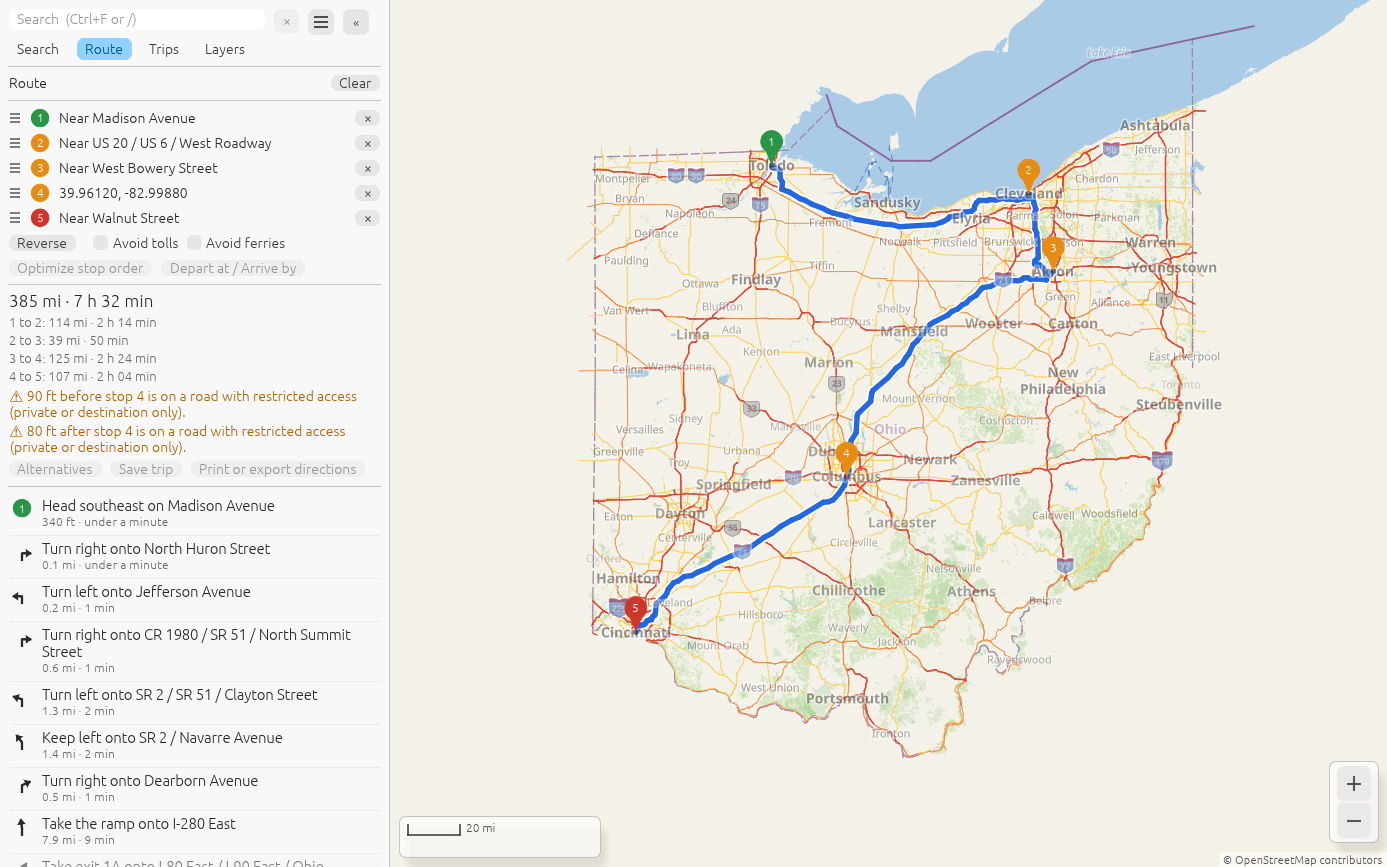
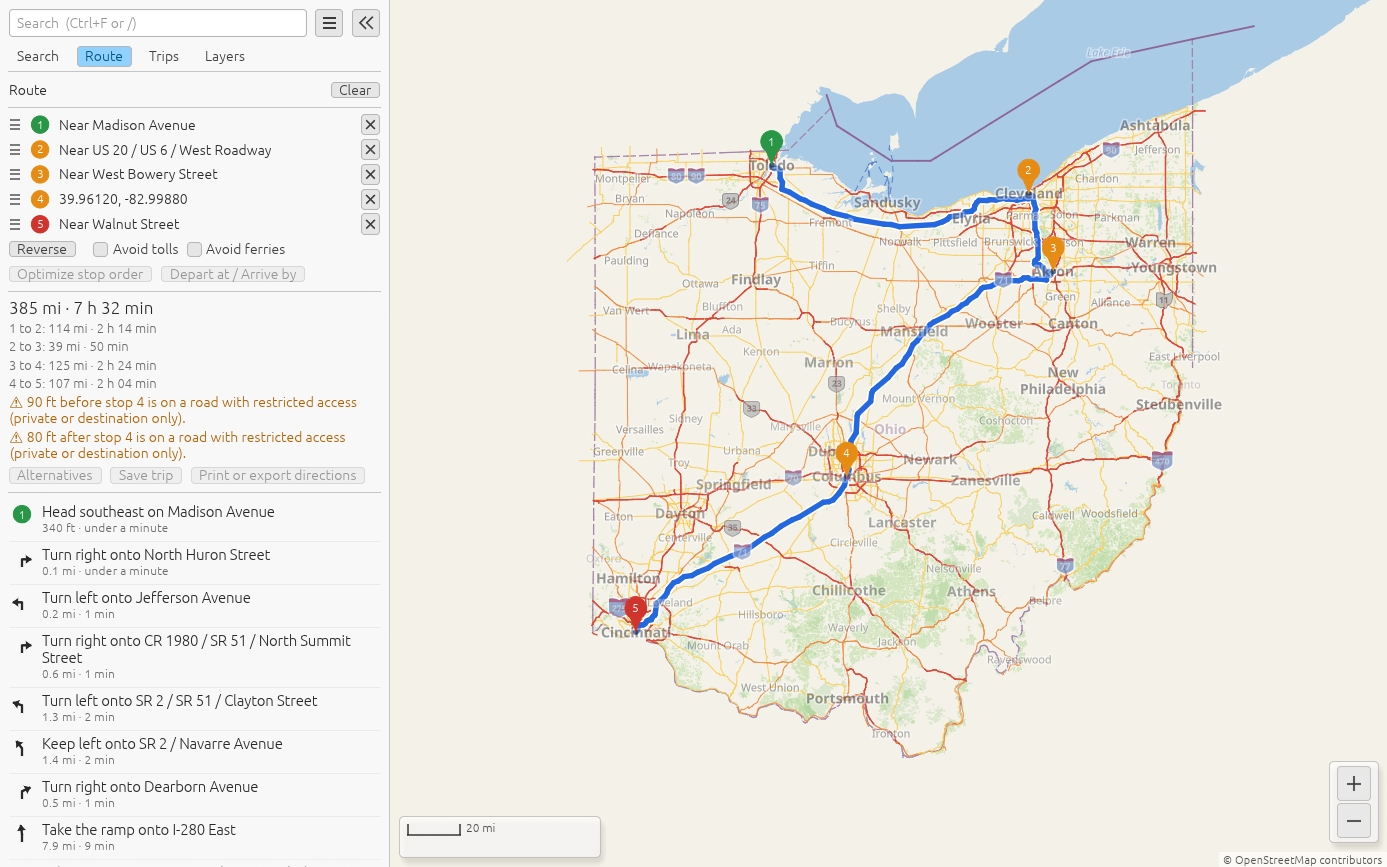
Side panel tweaks: header row, tab spacing, map shadows; docs
The header row is laid out from the right (hide, menu, then the search
box in what is left), so the hide button sits at the panel's margin and
the box, now directly in the row, is level with the buttons. More space
above the tabs than below them. The shadow of the boxes over the map is
halfway between egui's popup shadow and the last one (3 by 5 points,
blur 6).

README describes the clear button in the box; the side panel screenshots
are taken again in the new style; the 3.8 note records the style work.

Changed region(s): [[0.0, 0.0, 0.248, 1.0], [0.217, 0.0934, 0.279, 0.2803], [0.217, 0.0, 0.279, 0.0311]]

diff --git a/crates/app/src/app.rs b/crates/app/src/app.rs
@@ -1613,29 +1613,28 @@ fn side_panel(
         .frame(frame)
         .show(ui, |ui| {
             let had_focus = p.search.box_was_focused();
-            ui.horizontal(|ui| {
-                p.search.box_ui(
-                    ui,
-                    p.camera,
-                    2.0 * crate::theme::HEADER_H + 16.0,
-                    recent,
-                    key,
-                    &mut o.out,
-                );
-                o.action = side::menu(ui, debug);
+            // From the right: hide, the menu, and the box in what is left.
+            let row = egui::Layout::right_to_left(egui::Align::Center);
+            let size = Vec2::new(ui.available_width(), crate::theme::HEADER_H);
+            ui.allocate_ui_with_layout(size, row, |ui| {
                 let hide = glyph_button(ui, Glyph::Hide, crate::theme::HEADER_H)
                     .on_hover_text("Hide the panel  (Ctrl+B)");
                 o.hide = hide.rect;
                 if hide.clicked() {
                     side.open = false;
                 }
+                o.action = side::menu(ui, debug);
+                p.search.box_ui(ui, p.camera, recent, key, &mut o.out);
             });
             // A click in the box shows the search page.
             if p.search.focused(&ctx) && !had_focus {
                 *p.page = Page::Search;
             }
+            // More room above the tabs than below them.
+            ui.add_space(5.0);
             o.tabs = side::tabs(ui, p.page);
-            ui.separator();
+            ui.add(egui::Separator::default().spacing(2.0));
+            ui.add_space(3.0);
             match p.page {
                 Page::Search => {
                     if !p

diff --git a/crates/app/src/search/ui.rs b/crates/app/src/search/ui.rs
@@ -284,14 +284,13 @@ impl SearchUi {
         self.list_rect = None;
     }
 
-    /// The box and its clear button, across `ui` but for `reserve` points, with its keys: the arrows move through the
+    /// The box with its clear button, across what is left of `ui`, with its keys: the arrows move through the
     /// suggestions, Enter picks one or searches, Escape closes them and then lets go of the
     /// box. What the suggestions are is kept for [`Self::suggestions_ui`].
     pub fn box_ui(
         &mut self,
         ui: &mut egui::Ui,
         cam: &Camera,
-        reserve: f32,
         recent: &mut Vec<String>,
         bench: Option<BenchKey>,
         out: &mut Out,
@@ -347,7 +346,9 @@ impl SearchUi {
             None => {}
         }
 
-        ui.horizontal(|ui| {
+        // In the caller's row, which is as tall as the box: a row of its own would start
+        // at the default height and leave the box below the buttons beside it.
+        ui.scope(|ui| {
             // A press on the suggestions must not take the focus away before the click
             // lands.
             let keep = self
@@ -374,7 +375,7 @@ impl SearchUi {
             let edit = egui::TextEdit::singleline(&mut self.text)
                 .id(id)
                 .hint_text(hint)
-                .desired_width((ui.available_width() - reserve - 12.0).max(80.0))
+                .desired_width(ui.available_width().max(80.0))
                 .min_size(Vec2::new(0.0, HEADER_H))
                 .align(egui::Align2::LEFT_CENTER)
                 .suffix(egui::Atom::custom(slot, Vec2::splat(CLEAR)))

diff --git a/crates/app/src/theme.rs b/crates/app/src/theme.rs
@@ -13,13 +13,13 @@ pub const APPROX: Color32 = Color32::from_rgb(176, 96, 0);
 /// Height of the search box and the buttons beside it.
 pub const HEADER_H: f32 = 26.0;
 
-/// The shadow of the boxes over the map: close under them, not egui's popup shadow, which
-/// sits 6 by 10 points away.
+/// The shadow of the boxes over the map: nearer them than egui's popup shadow, which sits
+/// 6 by 10 points away.
 pub const MAP_SHADOW: egui::Shadow = egui::Shadow {
-    offset: [0, 1],
-    blur: 4,
+    offset: [3, 5],
+    blur: 6,
     spread: 0,
-    color: Color32::from_black_alpha(40),
+    color: Color32::from_black_alpha(32),
 };
 
 /// Corner radius of the widgets, and of windows, menus and the boxes over the map.

diff --git a/crates/app/src/search/ui_tests.rs b/crates/app/src/search/ui_tests.rs
@@ -35,7 +35,7 @@ fn keyboard() {
             if !s.box_was_focused() {
                 s.escape(&ctx);
             }
-            s.box_ui(ui, &cam, 0.0, recent, None, &mut o);
+            s.box_ui(ui, &cam, recent, None, &mut o);
             if !s.suggestions_ui(ui, &cam, Units::Kilometres, recent, &mut o) {
                 s.results_ui(ui, &cam, Units::Kilometres, &mut o);
             }

diff --git a/docs/phase3-plan.md b/docs/phase3-plan.md
@@ -298,7 +298,9 @@ Turn a path into directions, and write the hand-written route set.
 > - **Frame times** (dev machine, decision 14 Ohio pack, same session): `ohio-route.toml`, panel on the route page until the searches, interval p50 0.80 / p95 1.04 / max 16.6 ms, CPU p95 0.24; `ohio.toml`, panel on the search page, 0.65 / 0.82 / 16.1, CPU 0.20. The machine ran faster today than for 3.7 (`ohio.toml` 0.90 then), so the comparison is the gap: 0.22 ms with route and panel, against 0.27 in 3.7. Not back to the no-route figure: what is left is egui tessellating and drawing the route page's text, opaque or not. RSS peak 220 MiB (Ohio, as in 3.7). Binary 13.8 MiB.
 > - **North America** (Miami–Columbus–Seattle, then a search for "400 Broad St, Seattle" and "what's here" at Pike Place): everything works from the panel; route shown 501 ms after asking (trip 147 ms), frame p95 1.50 ms over a flight with typing in it. RSS peak 298 MiB, i.e. 313 MB: search's readers (41 MiB, 151 MiB read) on top of 3.7's 243 MiB. That is over criterion 6's 300 MB, though not caused by the panel; 3.9 should measure it on the official flight.
 >
-> Left open: the route page costs 0.2 ms of frame interval at p95 (egui's text); the window has still not been clicked through by hand (3.9).
+> - **Style** (after the owner tried the panel by hand on the dev machine): `theme::apply` sets the app's look over egui's light theme in one place: corner radius 3 for widgets and 4 for windows and menus; a grey outline on buttons, text boxes and checkboxes at rest; the search box 26 points tall, level with the ☰ and « beside it, its clear × inside it at the right end; ×, « and » drawn rather than typed, centred; the ☰ bars on whole pixels; the boxes over the map with a nearer shadow than egui's popups. Frame p95 unchanged (1.04 ms).
+>
+> Left open: the route page costs 0.2 ms of frame interval at p95 (egui's text); clicking through by hand on the Latitude 7490 and the E6430 stays in 3.9.
 
 *Added 2026-10-28 by the owner, after trying 3.7.* Search, its results, "what's here", the route panel, Layers and Menu are now separate translucent boxes floating over the map. Put them in one **opaque side panel on the left** that opens and closes, with the map beside it rather than under it. Less clutter, and the map is no longer drawn under panels and blended with them (the route panel alone costs about 0.27 ms of frame interval at p95 on the Ohio bench, 3.7). Design it for what phases 4 and 5 add, with placeholders where that helps.
 

diff --git a/README.md b/README.md
@@ -20,7 +20,7 @@ Controls: drag to pan, scroll or double-click to zoom, arrow keys to pan, `+`/`-
 
 The side panel on the left holds the search box, the ☰ menu (open or verify a pack, About this map, the debug overlay) and four pages: Search, Route, Trips (a placeholder for now) and Layers (the layer toggles and the scale bar's units). Ctrl+B or the « and » buttons hide and show it; drag its edge to resize it. Right-clicking the map offers "What's here?" and the route items.
 
-Search: Ctrl+F or `/` goes to the search box, opening the panel if needed. Suggestions show in the panel as you type; the arrow keys move through them, Enter or a click picks one and flies there with a marker, and Enter with none selected lists every result. Escape closes the suggestions, then leaves the box, then steps back in the page: on the search page it closes "what's here", then the results list, then removes the marker; on the route page it lets go of the step picked (the × next to the box clears the search). A pack built before search (format 0.3 or older) opens with the box disabled.
+Search: Ctrl+F or `/` goes to the search box, opening the panel if needed. Suggestions show in the panel as you type; the arrow keys move through them, Enter or a click picks one and flies there with a marker, and Enter with none selected lists every result. Escape closes the suggestions, then leaves the box, then steps back in the page: on the search page it closes "what's here", then the results list, then removes the marker; on the route page it lets go of the step picked (the × in the box clears the search). A pack built before search (format 0.3 or older) opens with the box disabled.
 
 The style comes from `--style <file>`, else `style.toml` next to the executable, else the built-in [crates/app/data/style.toml](crates/app/data/style.toml). A debug build (`cargo run -p omp-app -- --style crates/app/data/style.toml ...`) reloads the style when the file changes.
 
